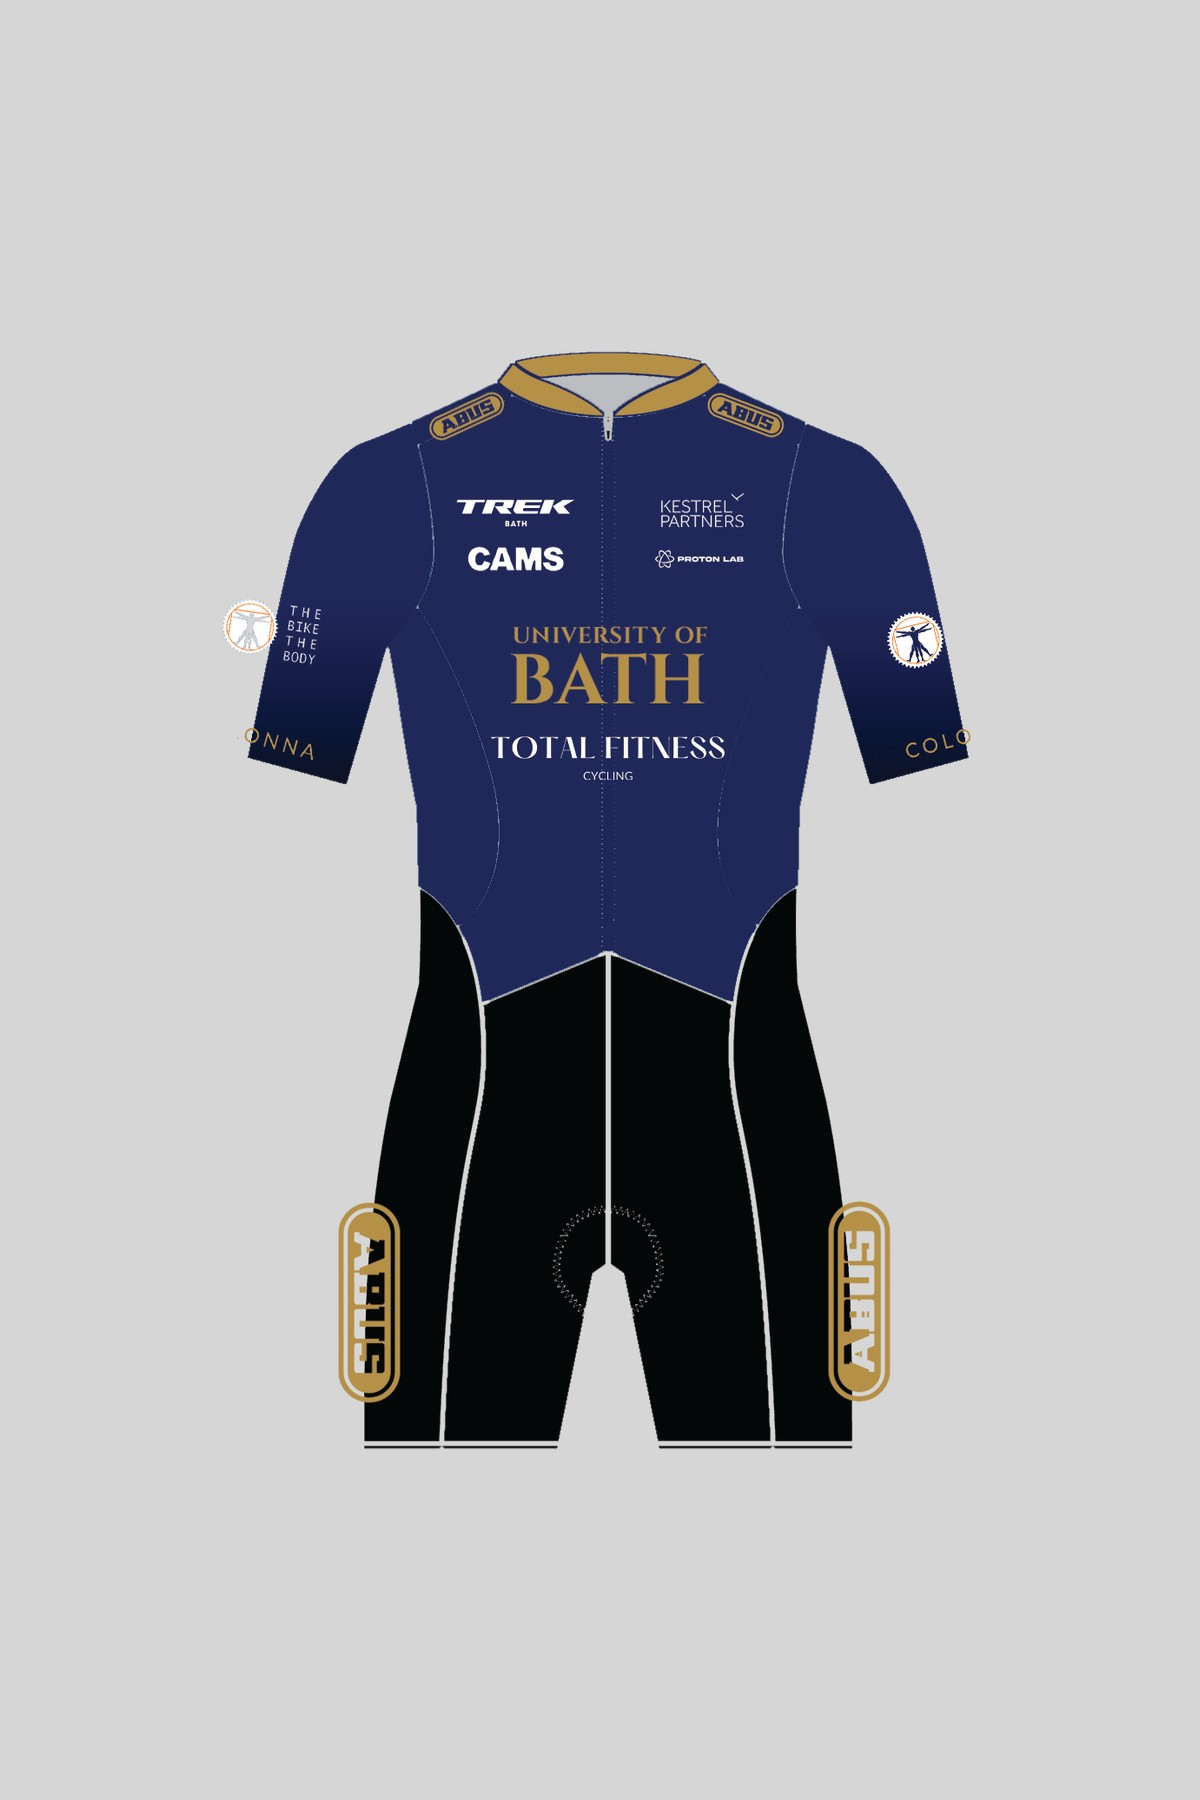
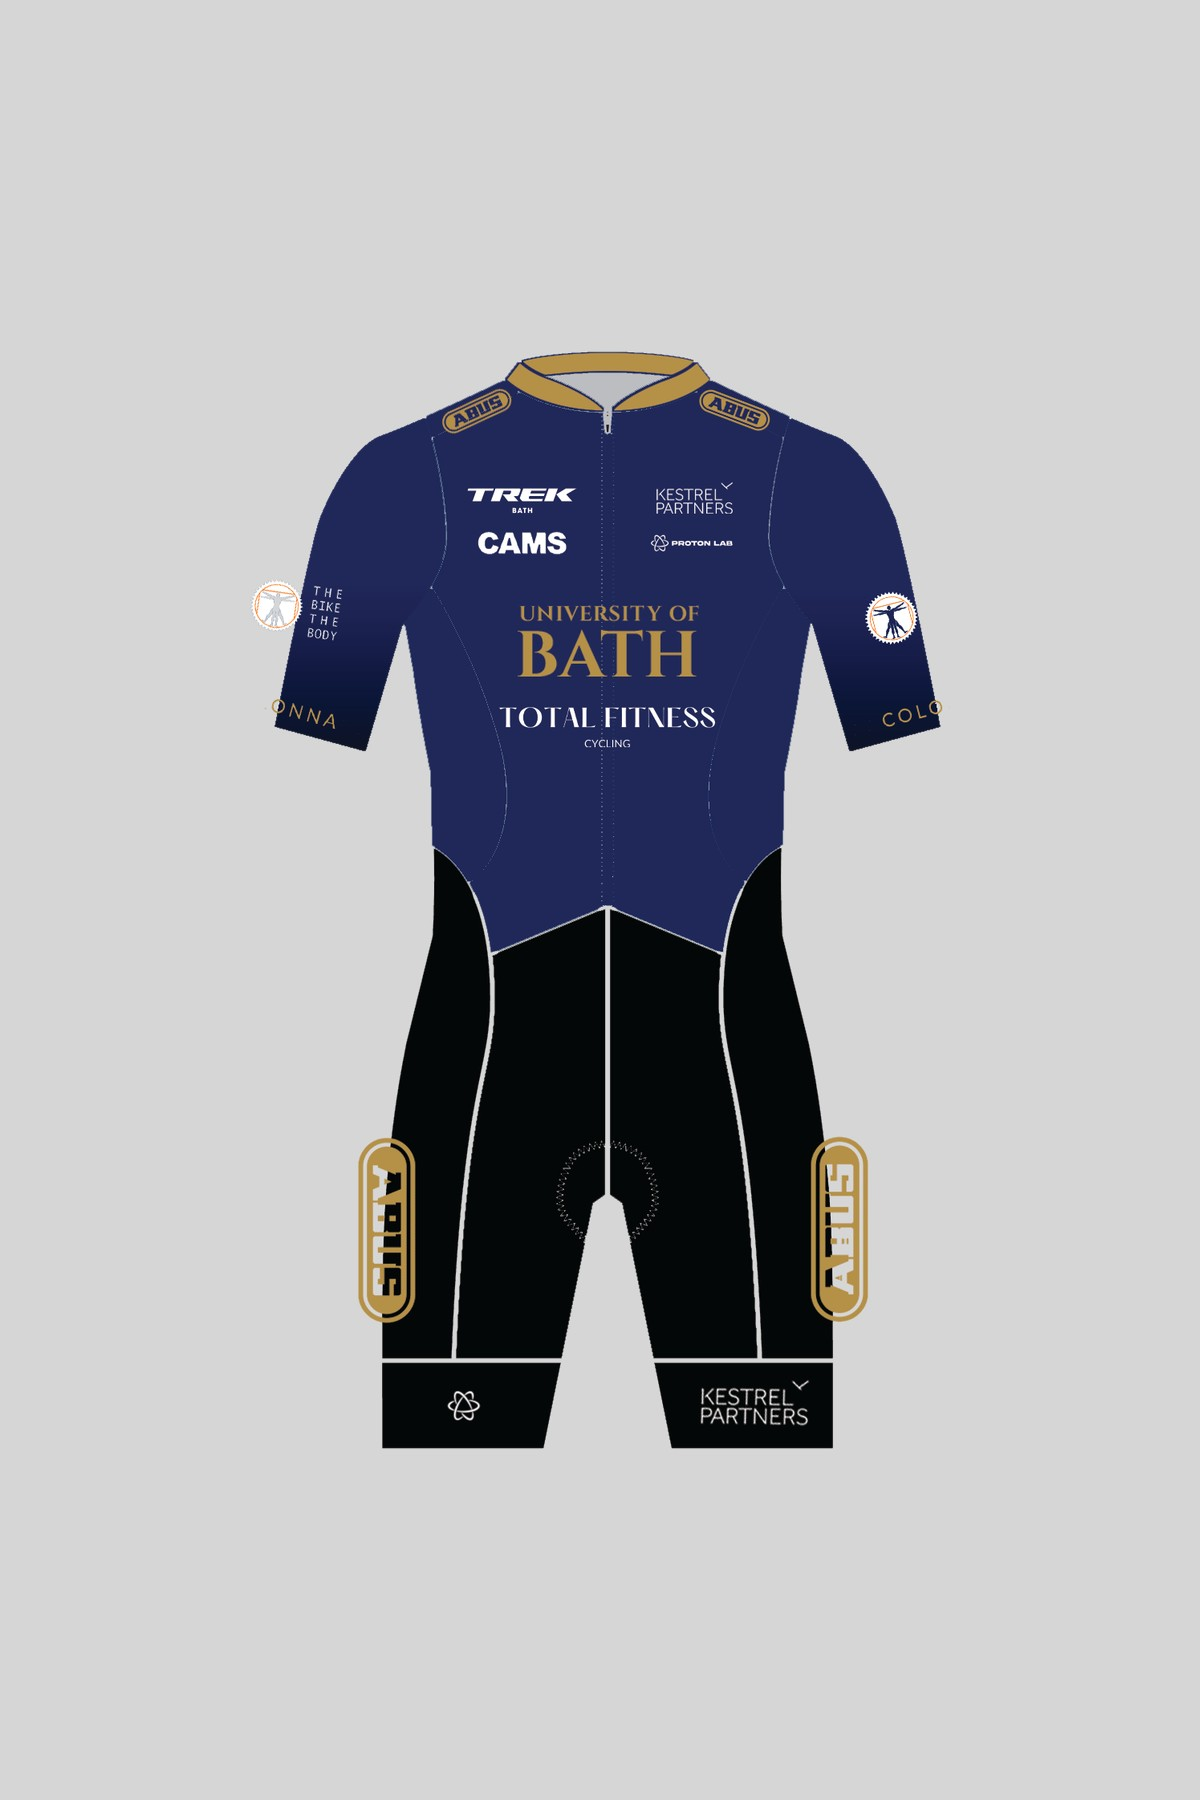
Bath roadsuit renders: restore the leg gripper band
The band is separated from the shorts by a background-coloured seam and was
dropped by the pre-merge extraction; re-rendered with the adjacency merge
and cache-busted the two paths.

Claude-Session: https://claude.ai/code/session_016cSVAFLvx3Kr6Cjxvvc5Md

diff --git a/data/clubs.ts b/data/clubs.ts
@@ -223,8 +223,8 @@ export const clubs: Club[] = [
         image: '/images/clubs/university-of-bath-cycling-club/bath-training-bib-tights-front.jpg',
         customImages: ['/images/clubs/university-of-bath-cycling-club/bath-training-bib-tights-back.jpg'] },
       { name: 'SS Roadsuit', handle: 'ss-roadsuit', category: 'lower', price: '£126.00',
-        image: '/images/clubs/university-of-bath-cycling-club/bath-ss-roadsuit-front.jpg',
-        customImages: ['/images/clubs/university-of-bath-cycling-club/bath-ss-roadsuit-back.jpg'] },
+        image: '/images/clubs/university-of-bath-cycling-club/bath-ss-roadsuit-front.jpg?v=2',
+        customImages: ['/images/clubs/university-of-bath-cycling-club/bath-ss-roadsuit-back.jpg?v=2'] },
     ],
   },
 ]
